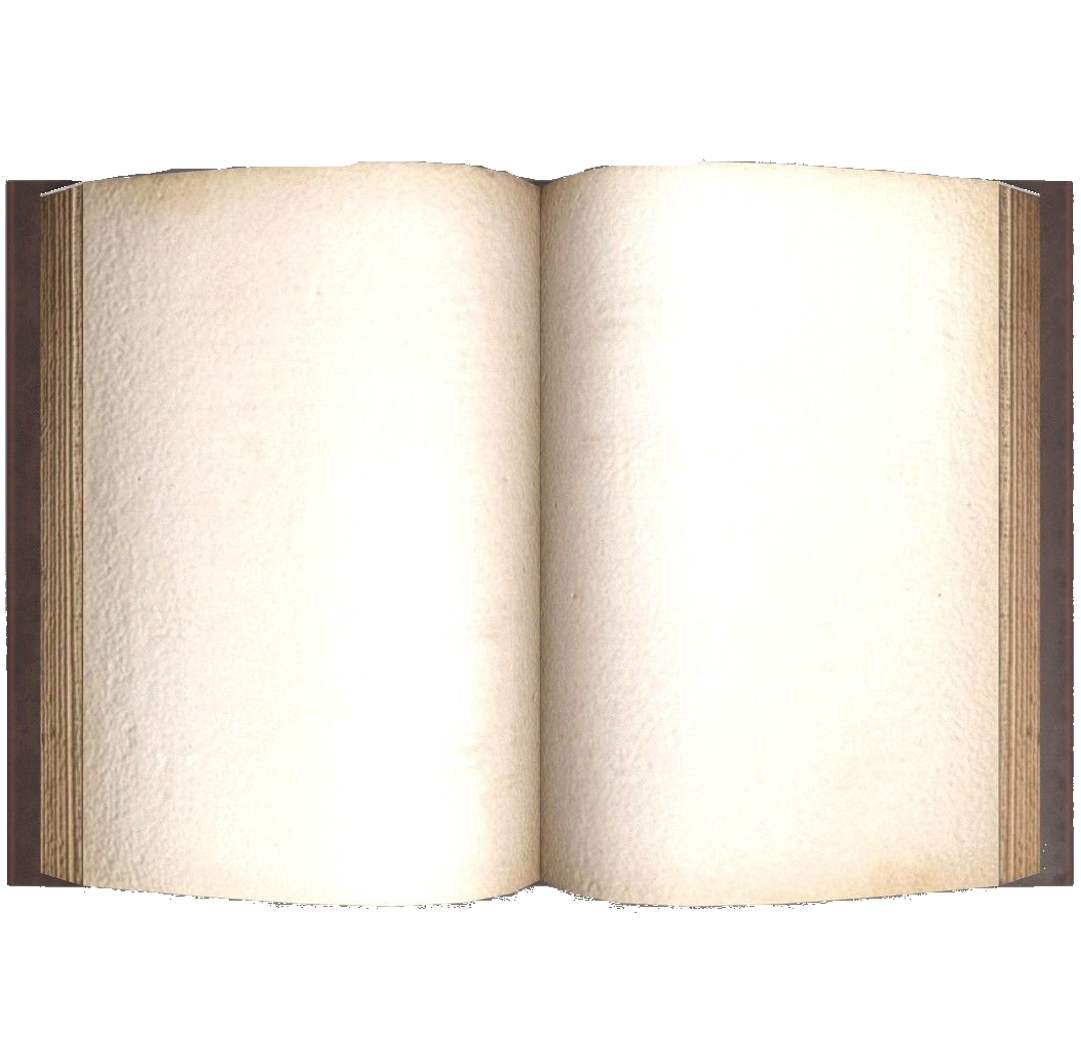
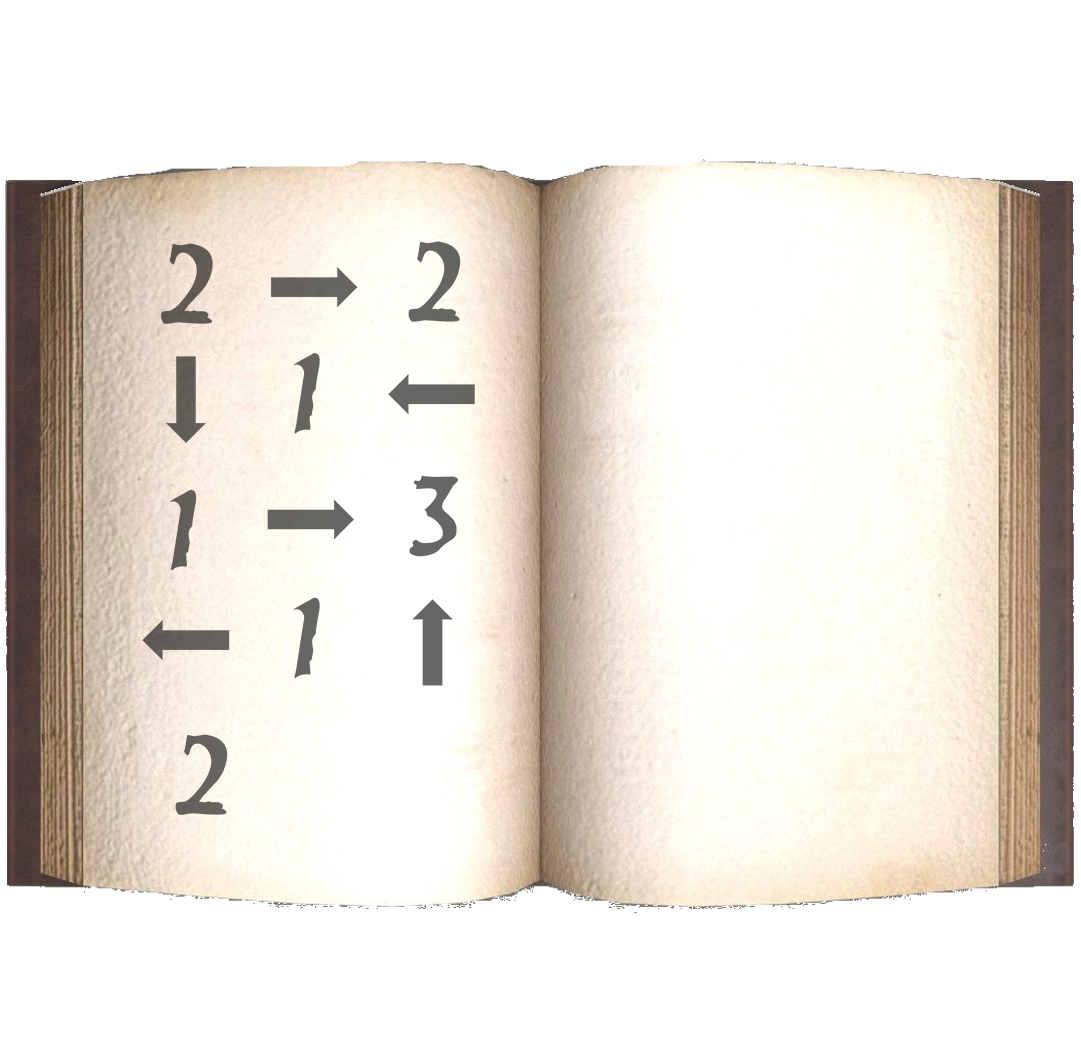
Added answer, and clue

diff --git a/src/exit.js b/src/exit.js
@@ -4,7 +4,7 @@ export class Exit extends Puzzle{
     constructor(name, background) {
         super(name,background);
         this.order = "";
-        this.sequence = "001132320"
+        this.sequence = "001132333200"
     }
 
     check_solve(){
@@ -14,17 +14,16 @@ export class Exit extends Puzzle{
     }
     add_to_order(id){
         this.order += String(id);
-        console.log(this.order);
         this.check_solve();
     }
-
-
 
     activate_door(){
         var puzzle =  document.getElementById("puzzle-view-bg");
         const top_y = "67.5%"
         const bottom_y = "79%"
         const self = this; // To preserve context within event listerner
+        const block_div = this.create_element("button-block","div");
+
         const handle_class = ["left-handle", "right-handle","left-handle", "right-handle"];
         const top = [top_y, top_y, bottom_y, bottom_y];
         const knob_class = ["left-knob","right-knob","left-knob","right-knob"];
@@ -36,21 +35,19 @@ export class Exit extends Puzzle{
             var knob = this.create_element(knob_class[i], "img");
             knob.src = knob_src[i];
             handle.addEventListener("click", function(){
+                puzzle.appendChild(block_div);
                 var knob = this.firstChild;
                 knob.style.animation =  "knob-rotate 1s 1";
                 self.add_to_order(this.id)
                 setTimeout(function(){
                     knob.style.animation = "";
+                    document.getElementById("button-block").remove();
                 },1000);
             });
             handle.appendChild(knob);
             puzzle.appendChild(handle);
         }
        
-
-
-
-
         this.set_answer("ANSWER");
         this.activate();
     }

diff --git a/src/puzzles.js b/src/puzzles.js
@@ -103,6 +103,7 @@ export function create_puzzles(){
 
     smoking_exit = new Exit("smoking-exit","./images/puzzles/smoking/exit.png")
     smoking_exit.set_explanation("So, this is it, the final puzzle. <br><br>This door is locked, and there are 4 handles that can open it. These must be turned in a precise order, otherwise the door will not open. Some handles may need to be turned more than once. Good Luck!");
+    smoking_exit.set_hints(["You could sit here all day twiddling doorknobs, but there is a clue that goes with this puzzle. Have you found the book yet?", "The book gives you a set of instructions on how to manipulate the handles.", "The book tells you how many times to turn each handle, and where to move after turning the handle", "All you're missing is which handle to start at. Only one will work with the arrows", "Starting at the top left handle, turn the handle twice (2 in the book), then move right (right arrow in the book). Keep doing this for every instruction in the book.","To solve this puzzle, turn each handle in turn, following this sequence. Top Left, Top Left, Top Right, Top Right, Bottom Right, Bottom Left, Bottom Right, Bottom Right, Bottom Right, Bottom Left, Top Left, Top Left"])
     smoking_exit.set_success_text("Correct! Time to leave the room!",function (){
        console.log("TODO Add Nav buttons");
     });
